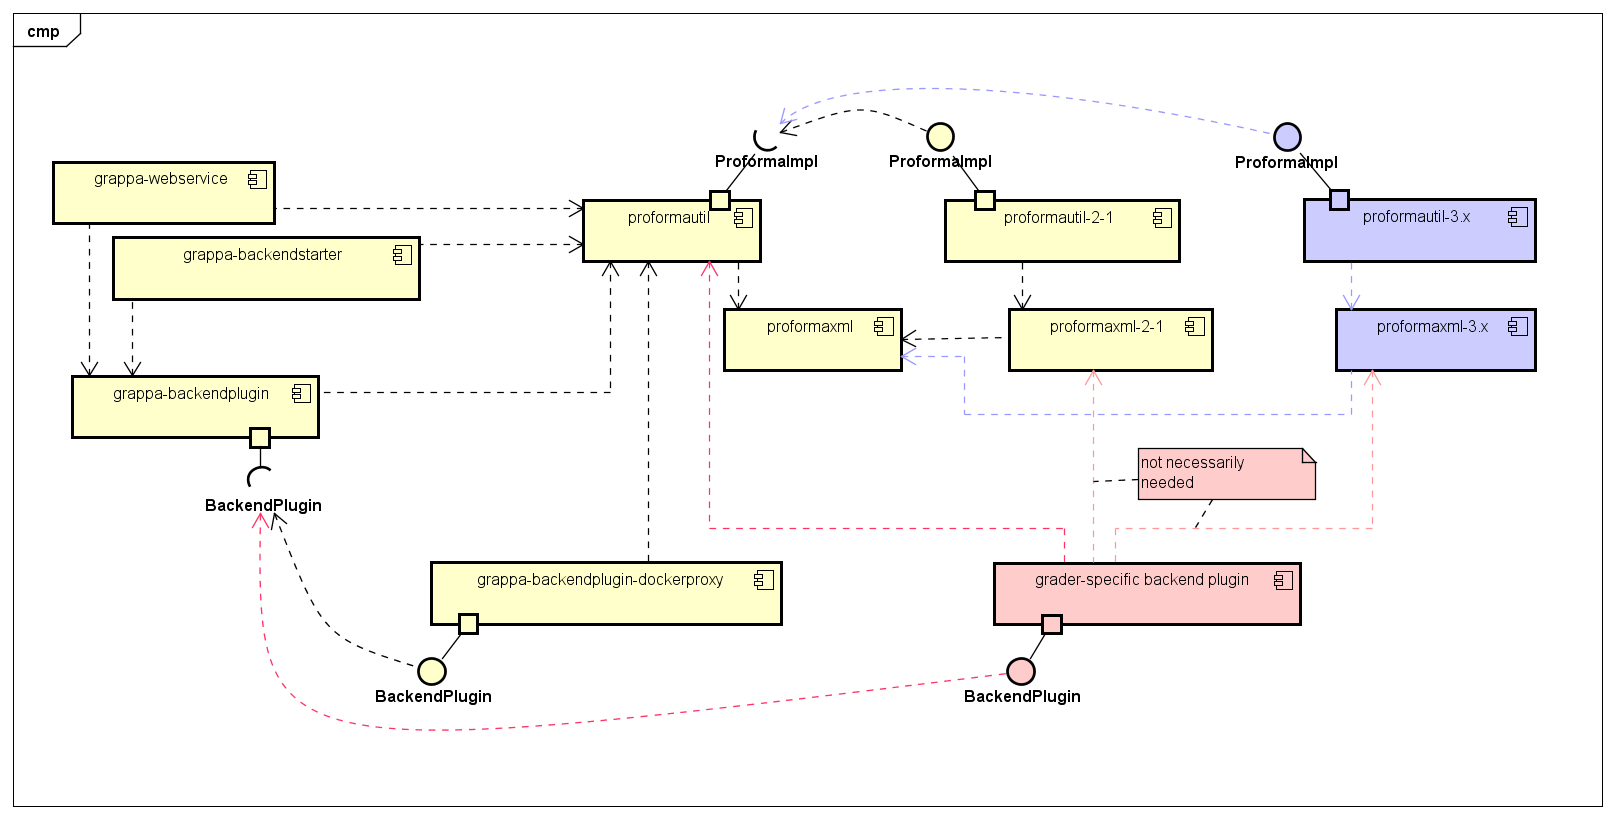
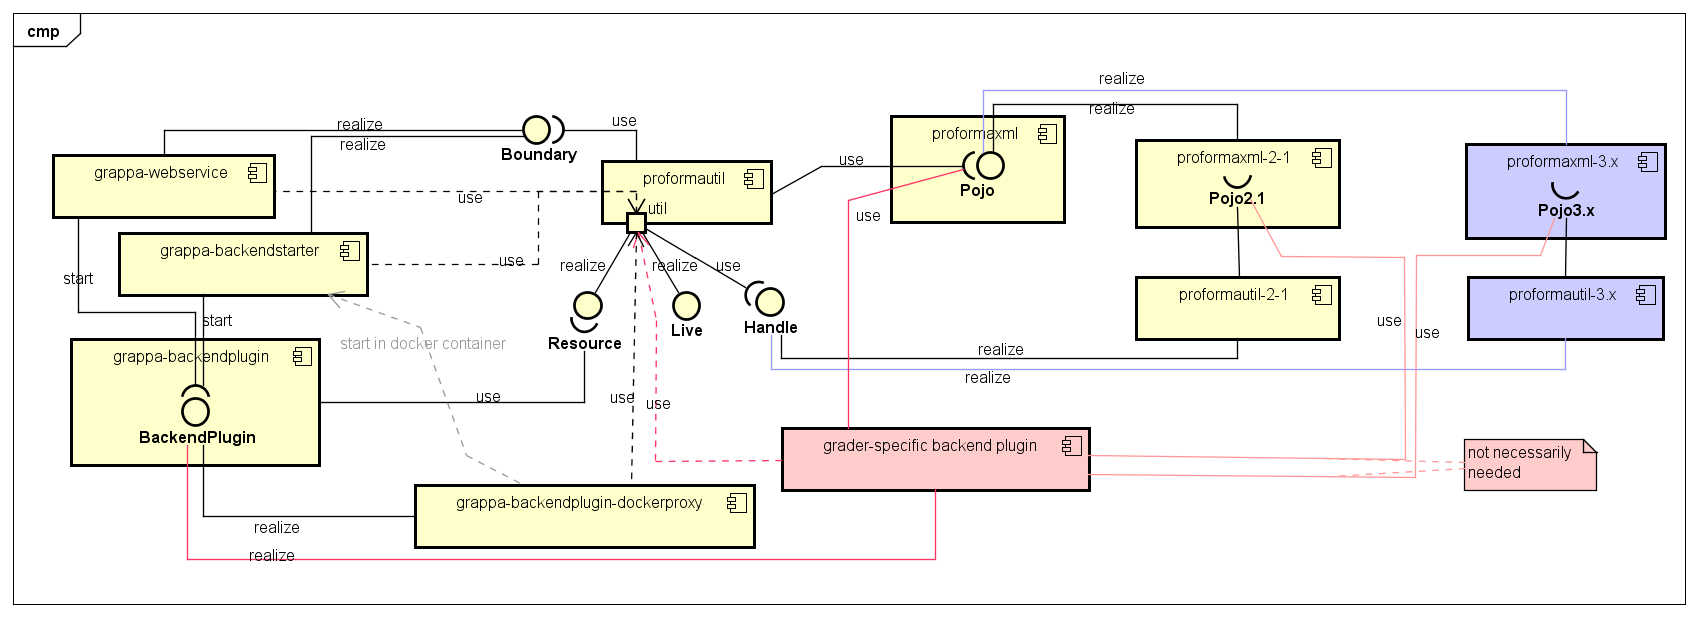
doc

diff --git a/documents/concept/documentation.md b/documents/concept/documentation.md
@@ -703,25 +703,27 @@ The following diagram shows the modules of the Grappa system and the dependencie
 
 ![Modules](images/components1.png "Modules")
 
-`grappa-webservice` is the largest module and implements the restful webservice. It also operates a Redis cache to store tasks, submissions and responses. The `grappa-webservice` module does not know any details about the ProFormA format. It just pools and queues tasks, submissions and responses as blobs (so-called resources) and organizes these blobs for various connected graders in the backend and for various connected learning management systems in the frontend. Any reading of task, submission or response data, that might in fact be necessary - e. g. the task uuid is needed to identify a task in the Redis cache - is delegated from `grappa-webservice` to `proformautil`.
+`grappa-webservice` is the largest module and implements the restful webservice. It also operates a Redis cache to store tasks, submissions and responses. The `grappa-webservice` module does not know any details about the ProFormA format. It just pools and queues tasks, submissions and responses as blobs (so-called `Resource`s) and organizes these blobs for various connected graders in the backend and for various connected learning management systems in the frontend. Any reading of task, submission or response data, that might in fact be necessary - e. g. the task uuid is needed to identify a task in the Redis cache - is delegated from `grappa-webservice` to `proformautil`.
 
-`proformaxml-2-1` hosts all java classes representing a ProForma v2.1 task, submission and response. 
+`proformaxml-2-1` hosts all "pojo" (plain old java object) classes representing a ProForma v2.1 task, submission and response. 
 
-`proformaxml` defines a few abstract base classes that are provided for those `proforma-...` module clients that want to reference a ProFormA object without specifying the ProFormA version, most notably the `proformautil` module and the `grader-specific backend plugin` modules.
+`proformaxml` defines a few abstract base classes that are provided for those `proforma...` module clients that want to reference a ProFormA object without specifying the ProFormA version, most notably the `proformautil` module and the `grader-specific backend plugin` modules.
 
 
 
-`proformutil` implements the blobs `TaskResource`, `SubmissionResource` and `ResponseResource` that allow the other modules to abstract from the nitty-gritty details of the ProFormA format. Next, `proformutil` offers a ProFormA utility interface, that makes it easier to read, modify and write a full-blown net of java objects from `proformaxml` and to convert these to and from the blobs mentioned previously. Typically it's a `grader-specific backend plugin` module that will use the ProFormA utility interface of the `proformutil` module like an api of the Grappa system.
+`proformutil` implements blobs for a task, a submission and a response in the `Resource` interface. This allows the other modules to abstract from the nitty-gritty details of the ProFormA format. Next, `proformutil` offers a ProFormA utility interface `Live`, that makes it easier to read, modify and write a full-blown net of java objects from `proformaxml` and to convert these to and from the blobs mentioned previously. Typically it's a `grader-specific backend plugin` module that will use the `Live` interface of the `proformutil` module like an api of the Grappa system. `Resource`and `Live` represent the same data - a `Resource` object is passivated data while a `Live`object is activated data. Both interfaces `Resource` and `Live` are provided and implemented by the `proformautil` module. The implementation leans on the required interface `Handle`, which is an abstraction for different ProFormA versions.
 
-`proformautil-2-1` provides an implementation of the utility interface provided by `proformautil`. In applying the dependency inversion pattern there is no module directly dependent on `proformautil-2-1`, so it could be replaced easily by future modules for future ProFormA versions. These carefully considered dependencies should allow for Grappa operating concurrently more than one ProFormA version, but currently there is only one ProFormA version 2.1 supported.
+`proformautil-2-1` provides an implementation of the `Handle` interface required by `proformautil`. In applying the dependency inversion pattern there is no module directly dependent on `proformautil-2-1`, so it could be replaced easily by future modules for future ProFormA versions. These carefully considered dependencies should allow for Grappa operating concurrently more than one ProFormA version, but currently there is only one ProFormA version 2.1 supported.
 
 `grappa-backendplugin` provides the class `de.hsh.grappa.backendplugin.BackendPlugin` which is the base class of all backend plugins each serving a specific grader. 
 
 `A grader-specific backend plugin` module implements a subclass of `de.hsh.grappa.backendplugin.BackendPlugin`. The path of the module's jar file and the fully qualified classname are configured in the `graders` section of the `grappa-config.yaml` file. The `grappa-webservice` module will load and instantiate the subclass and pass grade requests to it. As such, the `grader-specific backend plugin's` code is running inside the JVM that also runs the `grappa-webservice` module. For simple `grader-specific backend plugins` this is convenient and efficient, but more demanding `grader-specific backend plugins` could run in conflicting situations with the `grappa-webservice` module, e. g. if the `grappa-webservice` module uses a different version of a third-party library than the `grader-specific backend plugin` module. For solving this and also to better protect the webservice host from flawed or malicious code in a `grader-specific backend plugin` module, the `grader-specific backend plugin` module can be wrapped into a docker container.
 
-The `grader-specific backend plugin` module usually calls the `proformautil` ProFormA utility interface to process a submission. If this is not sufficient, a `grader-specific backend plugin` module also could directly use the java types in the `proformaxml-M-N` modules.
+The `grader-specific backend plugin` module usually calls the `Resource`, `Live` and `Handle` interfaces to process a submission. If this is not sufficient, a `grader-specific backend plugin` module also could directly use the pojo types in the `proformaxml-M-N` modules.
 
 `grappa-backendstarter` is the module that bootstraps the docker container. It provides the class `de.hsh.grappa.backendstarter.GraderBackendStarter` that has a `main` method, which loads and instantiates a `grader-specific backend plugin` module. The `grader-specific backend plugin` module is more or less agnostic of whether it has been invoked from the `grappa-webservice` module or from the `grappa-backendstarter` module.
+
+The implementation of the `Live` interface needs to read external data referenced from ProFormA objects. Depending on whether the `grader-specific backend plugin` module runs on behalf of the `grappa-webservice` module or on behalf of the `grappa-backendstarter` module, two different implementations of the `Boundary` interface process external data requests in two different ways. `Boundary` is required by `proformautil`. The `grappa-webservice` module provides the first `Boundary` implementation and answers external requests by checking the Redis cache or by downloading  data from the internet. The `grappa-backendstarter` module provides a more restricted implementation of the `Boundary` interface, since there is no Redis cache available in the docker container.
 
 `grappa-backendplugin-dockerproxy` is a special subclass of `de.hsh.grappa.backendplugin.BackendPlugin`, that creates a docker container, pushes the submission to the container's file system, and starts the bootstrap process of the container which leads to the `grappa-backendstarter` module being executed inside the container. After the `grader-specific backend plugin` returns and after the `grappa-backendstarter` module exits its `main` method, the `grappa-backendplugin-dockerproxy` fetches the response from the container and discards the container. The `grappa-backendplugin-dockerproxy` module processes submissions as blobs. This module should run with any future ProFormA version without modifications.
 
